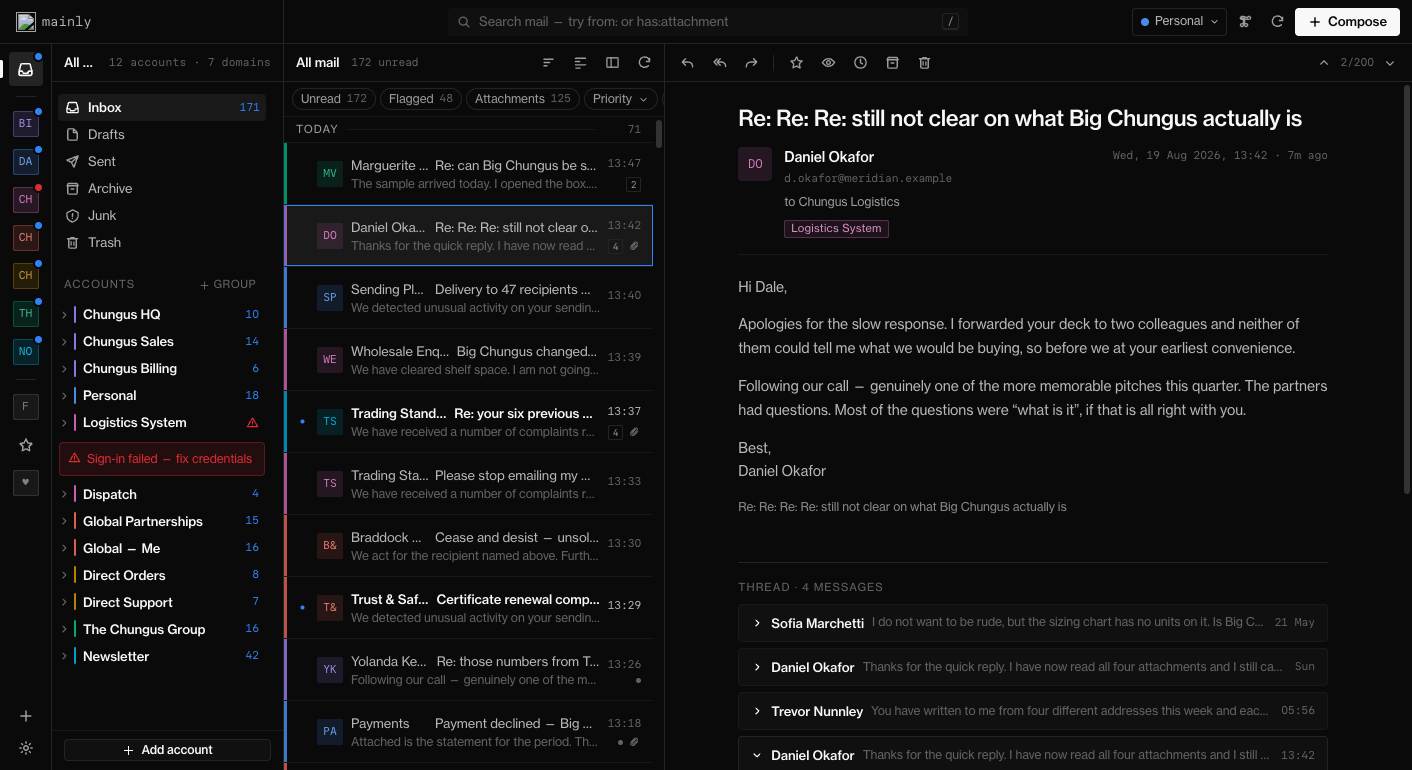
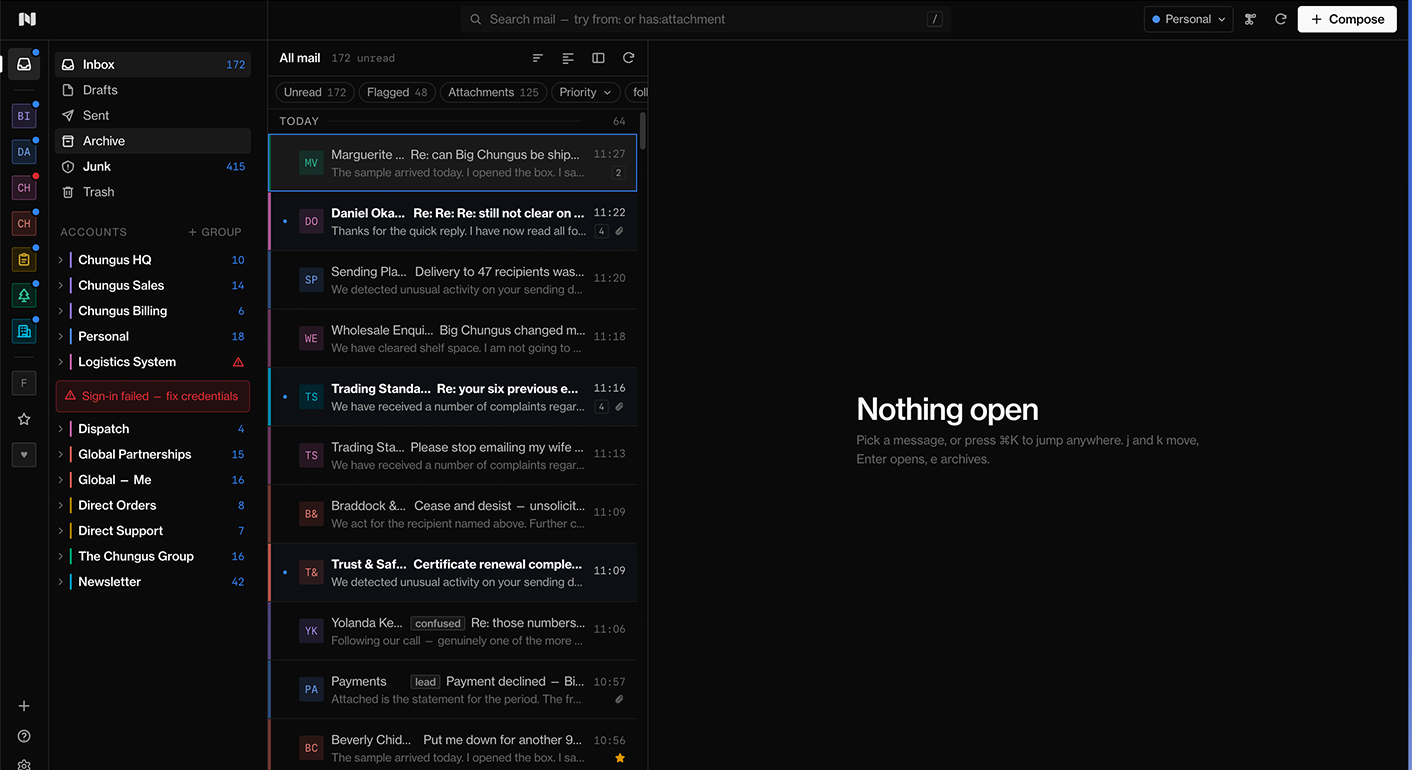
chore: bump deps & screenshots refresh

diff --git a/CHANGELOG.md b/CHANGELOG.md
@@ -1,29 +1,3 @@
-## 1.3.0 — 2026-09-03
-
-**Create & modify inboxes server-side from the app**
-
-This is an optional feature where you may create and remove addresses on your own mail server from mainly.
-
-- Permission lives on the mail server in /etc/mainly-provision.conf, which mainly cannot write.
-- An SSH key pinned to one forced command runs `scripts/mainly-provision` there, so nothing in mainly's database can widen
-what that file allows.
-- Six grants per domain, none granted by default. Deleting the stored mail is a separate grant from removing an address.
-- Writes are locked, atomic, and rolled back if the Postfix and Dovecot files fall out of parity.
-
-Usable from Settings → Mail server, ./mainly.sh domain, or an MCP agentwith the new provision scope.
-Adds migration 012 and a domain_ops audit trail.
-
-## Unreleased
-
-- **Domain control**: optional, per-domain, opt-in mailbox provisioning. Create and remove addresses on your own Postfix + Dovecot server from Settings → Mail server, the `./mainly.sh domain` CLI, or an MCP agent. Off unless a domain is connected, which requires shell access on the host.
-- Authorization lives on the mail server, in `/etc/mainly-provision.conf`, reached through an SSH key pinned to one forced command (`scripts/mainly-provision`). Nothing mainly stores can widen what that file permits.
-- Six grants per domain, none by default; `purge` (destroy the stored mail) is separate from `delete` (retire the address).
-- Writes are atomic, locked, backed up, and rolled back if Postfix's address list and Dovecot's passwd-file fall out of parity.
-- New `provision` token scope, deliberately separate from `write`. New `domain_ops` audit trail, kept after a domain is disconnected.
-- The mail server host goes through the same SSRF guard as every other outbound host (`ALLOW_PRIVATE_IMAP_HOSTS` is the opt-out, and a mail server on a LAN or tailnet is the normal case). SSH host keys are pinned, never trusted on first use. The stored key is sealed with `SECRET_KEY` and redacted from logs.
-- The helper refuses a config file that anyone but root can write, and refuses to purge a Maildir that is a symlink.
-- Migration 012.
-
 ## 1.2.4 — 2026-08-31
 
 - Closed the three reported upstream advisories (@fastify/static 8.3.0→10.1.3, which needed a setHeaders migration to the v10 FastifyReply API; mailparser 3.9.14→3.9.17; nanoid→3.3.18 in both trees)
